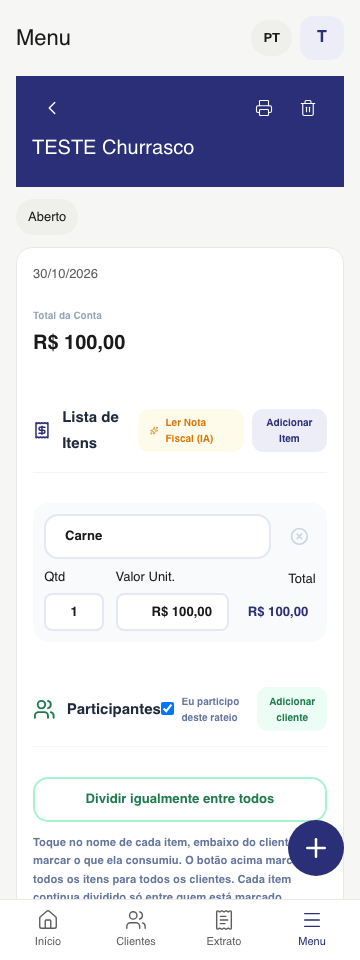
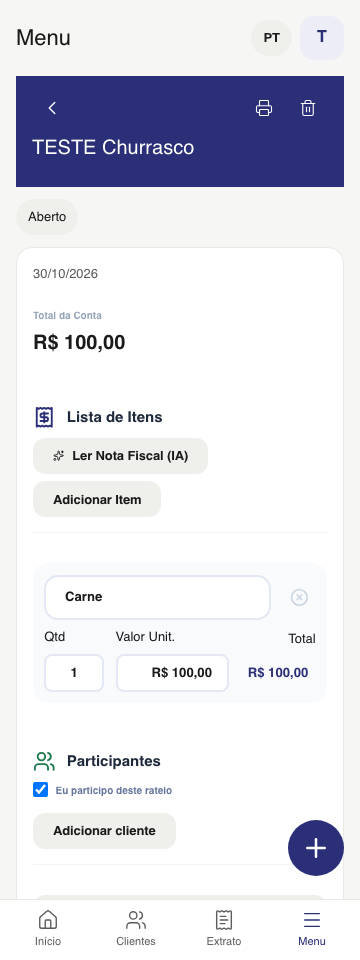
fix(ui): acalmar os botões de Dividir conta para caberem no celular
Os atalhos do evento passam ao botão do padrão novo e quebram a linha em 360px.

diff --git a/frontend/src/App.tsx b/frontend/src/App.tsx
@@ -1607,12 +1607,12 @@ const EventDetailView = ({
 
         <div className="grid grid-cols-1 lg:grid-cols-2 gap-12">
           <div className="space-y-8">
-            <div className="flex justify-between items-center pb-4 border-b border-slate-100">
+            <div className="flex justify-between items-center gap-2 flex-wrap pb-4 border-b border-slate-100">
               <h3 className="text-xl font-black text-slate-800 flex items-center gap-3">
                 <Receipt className="w-6 h-6 text-indigo-600" /> {t.itemsList}
               </h3>
-              <div className="flex items-center gap-2">
-                <label className="cursor-pointer bg-amber-50 text-amber-600 px-3 py-1.5 rounded-xl text-[10px] font-black uppercase hover:bg-amber-100 transition-all flex items-center gap-2">
+              <div className="flex items-center gap-2 flex-wrap">
+                <label className="fp-btn fp-btn-secondary" style={{ minHeight: 36, fontSize: 13 }}>
                   {isScanning ? (
                     <Loader2 className="w-3 h-3 animate-spin" />
                   ) : (
@@ -1639,7 +1639,7 @@ const EventDetailView = ({
                     }));
                     setLastAddedItemId(newItemId);
                   }}
-                  className="bg-indigo-50 text-indigo-600 px-3 py-1.5 rounded-xl text-[10px] font-black uppercase hover:bg-indigo-100 transition-all"
+                  className="fp-btn fp-btn-secondary" style={{ minHeight: 36, fontSize: 13 }}
                 >
                   {t.addItem}
                 </button>
@@ -1761,11 +1761,11 @@ const EventDetailView = ({
             </div>
           </div>
           <div className="space-y-8">
-            <div className="flex justify-between items-center pb-4 border-b border-slate-100">
+            <div className="flex justify-between items-center gap-2 flex-wrap pb-4 border-b border-slate-100">
               <h3 className="text-xl font-black text-slate-800 flex items-center gap-3">
                 <Users className="w-6 h-6 text-emerald-600" /> {t.participants}
               </h3>
-              <div className="flex items-center gap-4">
+              <div className="flex items-center gap-4 flex-wrap">
                 <label className="flex items-center gap-2 cursor-pointer">
                   <input
                     type="checkbox"
@@ -1832,7 +1832,7 @@ const EventDetailView = ({
                     }));
                     setLastAddedParticipantId(newParticipantId);
                   }}
-                  className="bg-emerald-50 text-emerald-600 px-3 py-1.5 rounded-xl text-[10px] font-black uppercase hover:bg-emerald-100 transition-all"
+                  className="fp-btn fp-btn-secondary" style={{ minHeight: 36, fontSize: 13 }}
                 >
                   {t.addParticipant}
                 </button>
@@ -1854,7 +1854,7 @@ const EventDetailView = ({
                   }));
                 }}
                 disabled={event.items.length === 0 || event.participants.length === 0}
-                className="w-full bg-white border-2 border-emerald-200 text-emerald-700 px-4 py-3 rounded-2xl text-sm font-black hover:bg-emerald-50 transition-all disabled:opacity-40"
+                className="fp-btn fp-btn-secondary fp-btn-block"
               >
                 Dividir igualmente entre todos
               </button>
@@ -2063,22 +2063,22 @@ const EventDetailView = ({
                   ? `Vence em ${formatBrDate(splitDueDate)}`
                   : 'Se ficar em branco, a dívida fica sem vencimento.'}
               </p>
-              <p className="text-indigo-400 font-black uppercase tracking-widest text-[10px] mb-4">
-                CÁLCULO FINAL
+              <p style={{ margin: '0 0 8px', fontSize: 13, color: 'var(--fp-muted)' }}>
+                Cálculo final
               </p>
               <button
                 onClick={handleConfirmSplit}
                 disabled={totalBill <= 0 || event.isCompleted}
-                className="w-full bg-green-600 hover:bg-green-700 text-white py-5 rounded-2xl font-black text-lg transition-all shadow-lg active:scale-95 disabled:opacity-50"
+                className="fp-btn fp-btn-primary fp-btn-block"
               >
                 {event.isCompleted
-                  ? '✓ Divisão já confirmada'
+                  ? 'Divisão já confirmada'
                   : t.confirmSplitBtn || 'Confirmar Divisão'}
               </button>
               {event.splitDirty && (
                 <button
                   onClick={handleConfirmSplit}
-                  className="w-full mt-3 bg-amber-500 hover:bg-amber-600 text-white py-5 rounded-2xl font-black text-lg transition-all shadow-lg active:scale-95"
+                  className="fp-btn fp-btn-primary fp-btn-block" style={{ marginTop: 12 }}
                 >
                   {t.updateSplitBtn || 'Atualizar Divisão'}
                 </button>
